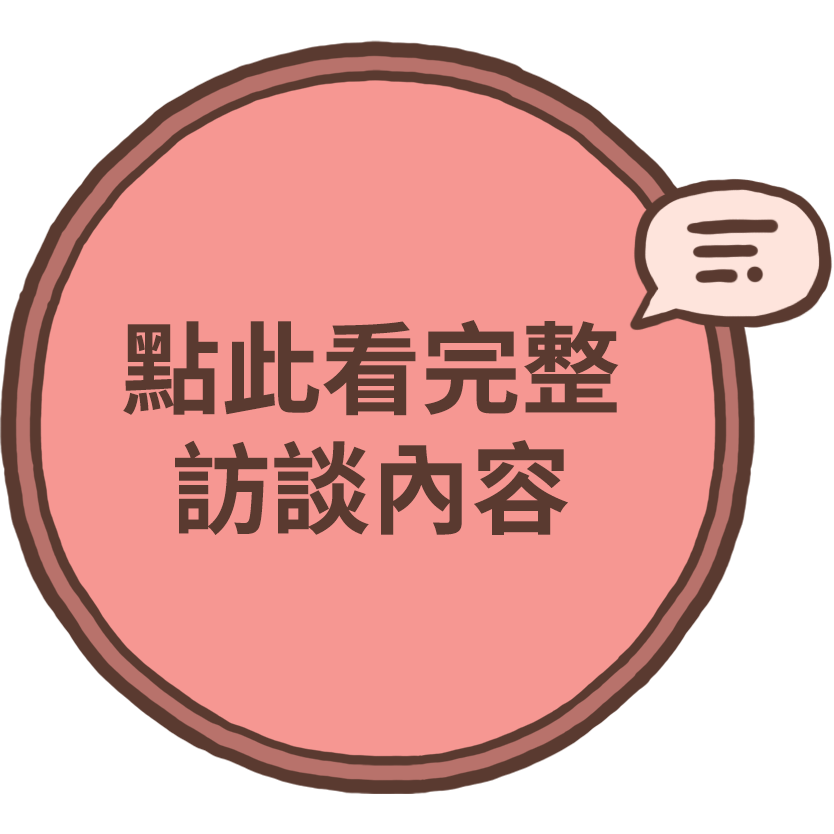
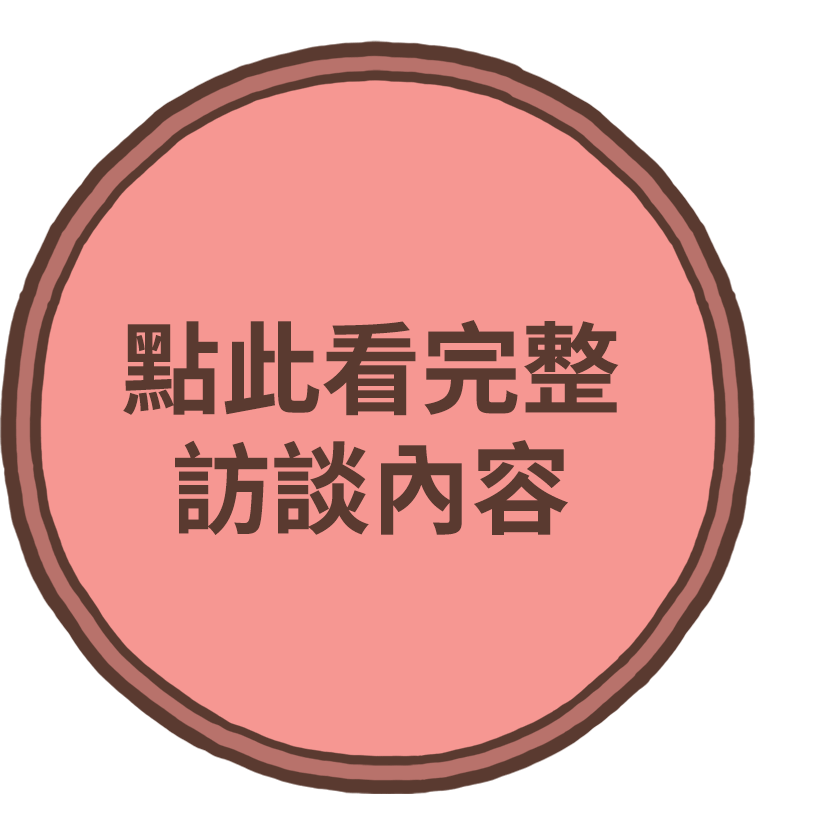
增加英文版首頁、CSS 微調

Changed region(s): [[0.7482, 0.1871, 0.9976, 0.4053]]

diff --git a/whitecollar/css/layout.css b/whitecollar/css/layout.css
@@ -42,6 +42,9 @@ margin-left:-10px; margin-top:-185px;
 background-image:url("../images/nav-title.png"); background-repeat:no-repeat;
 background-size:100% auto;
 }
+.en .nav--title {width:19px; height:471px; margin-top:-235px;
+background-image:url("../images/nav-title_en.png");
+}
 
 .nav--lang {width:100%; height:56px; display:block; position:absolute; left:0;
 color:#c3afaa; font-size:15px; line-height:50px; text-align:center; font-weight:bold;
@@ -342,6 +345,16 @@ background-size:100% auto;
 margin-top:-120px; cursor:pointer;
 }
 .glaint--btn img {width:100%;}
+
+.glaint--btn:before {content:""; display:block; width:60px; height:46px;
+position:absolute; right:0px; top:50px;
+background-image:url("../images/glance/glaintbtn-bubble.png"); background-repeat:no-repeat;
+background-size:60px auto; background-position:0 0;
+transform:scale(0.92);
+transition:200ms; transition-property:transform;
+transition-timing-function:linear;
+}
+.glaint--btn:hover:before {transform:scale(1.08);}
 
 .glaint--btn:after {content:""; display:block; width:75px; height:75px;
 position:absolute; right:-1px; bottom:-1px;

diff --git a/whitecollar/glance_en.html b/whitecollar/glance_en.html
@@ -22,8 +22,8 @@
 
 <div class="cardBoard pinSection fullwidth opening">
 	<div class="cardwpr">
-		<img class="card full__size" src="images/opening/opening.png" />
-		<img class="card compact__size" src="images/opening/opening-compact.png" />
+		<img class="card full__size" src="images/opening/opening_en.png" />
+		<img class="card compact__size" src="images/opening/opening-compact_en.png" />
 	</div>
 	<div class="desc opening--desc">
 		<div class="opening--btngroup cht">

diff --git a/whitecollar/index_en.html b/whitecollar/index_en.html
@@ -22,8 +22,8 @@
 
 <div class="cardBoard pinSection fullwidth opening">
 	<div class="cardwpr">
-		<img class="card full__size" src="images/opening/opening.png" />
-		<img class="card compact__size" src="images/opening/opening-compact.png" />
+		<img class="card full__size" src="images/opening/opening_en.png" />
+		<img class="card compact__size" src="images/opening/opening-compact_en.png" />
 	</div>
 	<div class="desc opening--desc">
 		<div class="opening--btngroup cht">

diff --git a/whitecollar/css/responsive.css b/whitecollar/css/responsive.css
@@ -145,3 +145,9 @@ max-width:none; width:80%;
     .glaint li {font-size:17px; line-height:23px;}
 
 } 
+
+@media only screen and (max-height: 700px) {
+    
+    .nav--title {display:none;}
+    
+    } 
